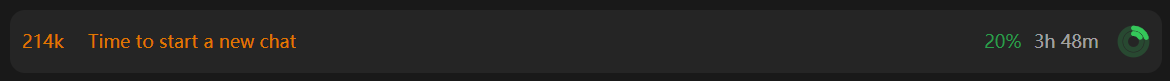
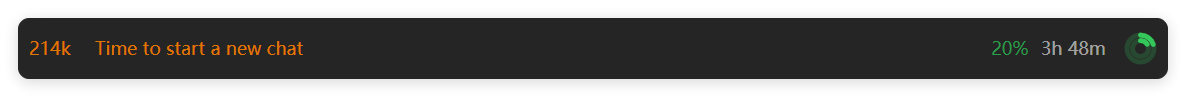
README: cut-out screenshots with rounded corners, light/dark via picture

diff --git a/README.md b/README.md
@@ -2,9 +2,12 @@
 
 **See your Claude plan usage limit at a glance: a live 5-hour and weekly usage indicator above the prompt box of the Claude desktop app (Claude Code), plus an optional Windows tray icon.**
 
-![The usage band above the prompt box](docs/usage-band.png)
-
-![The usage band in dark mode](docs/usage-band-dark.png)
+<p align="center">
+  <picture>
+    <source media="(prefers-color-scheme: dark)" srcset="docs/usage-band-dark.png">
+    <img alt="The usage band above the prompt box: context size, 5-hour percent and time left, and a usage ring" src="docs/usage-band-light.png" width="720">
+  </picture>
+</p>
 
 Anyone on a Claude Pro or Max plan eventually asks "how much of my 5-hour limit is left, and when does it reset?" This plugin answers that all the time, without opening a settings page or typing a command. It also tells you when your conversation has grown long enough that it is time to start a new chat.
 
@@ -51,7 +54,12 @@ The context figures include roughly 80k tokens of fixed overhead (system prompt,
 
 The `tray/` folder holds a small Windows tray program. The icon shows your 5-hour percentage on a green / orange / red tile. Click it to open a card with the 5-hour and weekly rings and their reset countdowns; click elsewhere or press Esc to close it. It follows the Windows light / dark theme.
 
-![Tray popup](docs/tray-popup.png)
+<p align="center">
+  <picture>
+    <source media="(prefers-color-scheme: dark)" srcset="docs/tray-popup-dark.png">
+    <img alt="Tray popup with a 5-hour ring and a weekly ring" src="docs/tray-popup-light.png" width="280">
+  </picture>
+</p>
 
 ```
 pip install -r tray/requirements.txt
